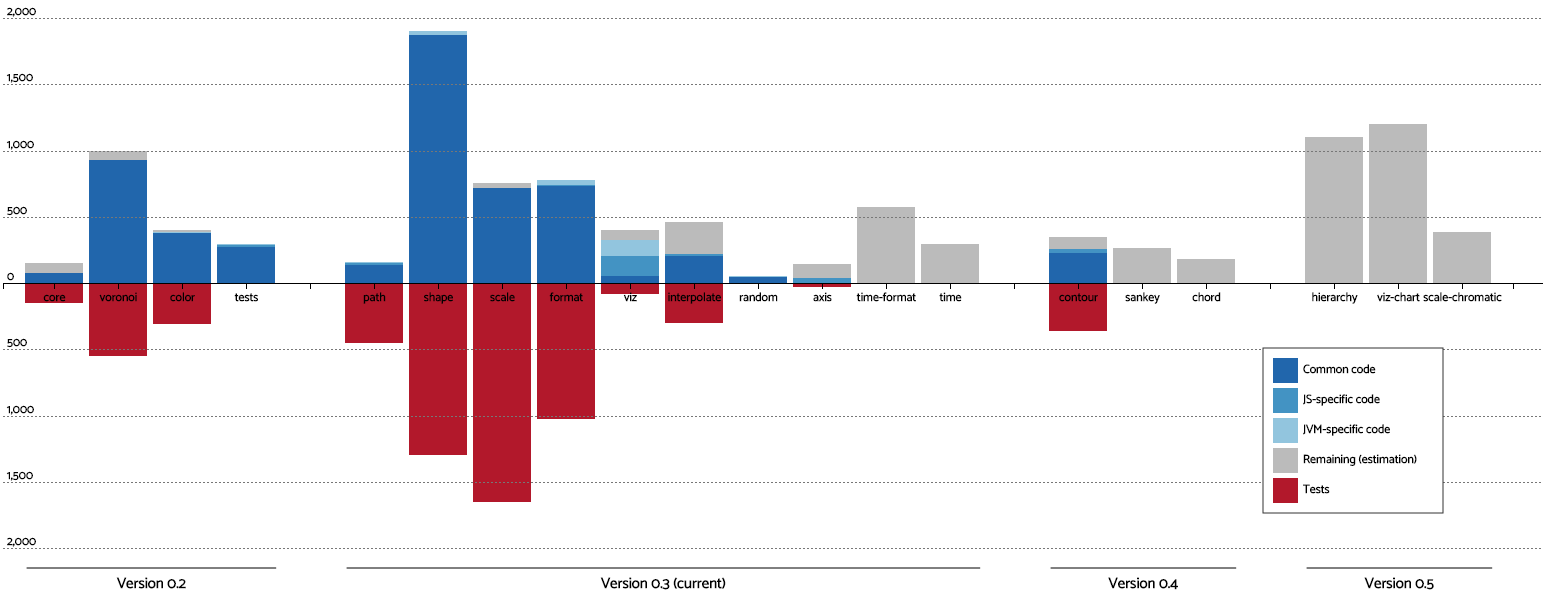
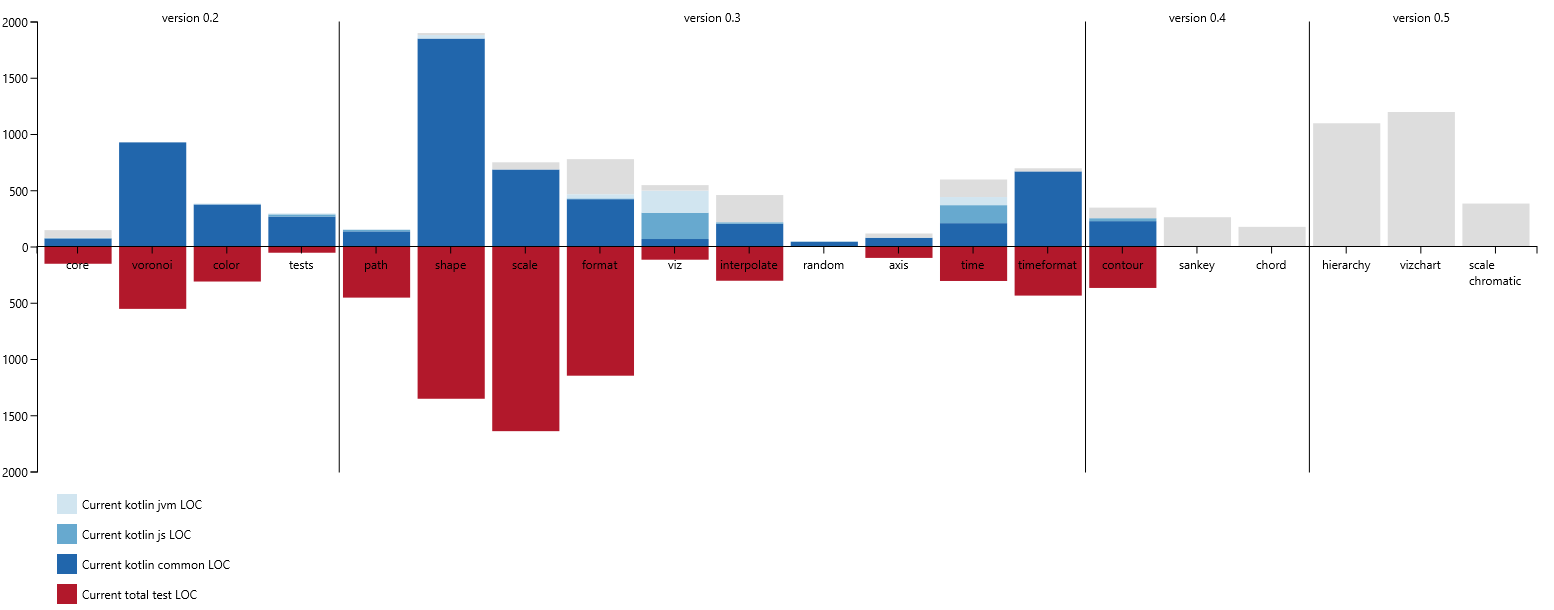
EXAMPLES : changed data of current progress + screenshot and update general readme file

diff --git a/examples/ex-progression-stack/ex-progression-stack-common/src/main/kotlin/io/data2viz/examples/progression/Data.kt b/examples/ex-progression-stack/ex-progression-stack-common/src/main/kotlin/io/data2viz/examples/progression/Data.kt
@@ -11,21 +11,22 @@ data class ModuleState(
         val testLOC: Int)
 
 
+// 18/12/2017
 val modules = listOf (
-        ModuleState("0.2",  "core", 150, 76, 3, 0, 150),
-        ModuleState("0.2",  "voronoi", 1000, 930, 0, 0, 550),
-        ModuleState("0.2",  "color", 400, 378, 2, 6, 307),
-        ModuleState("0.2",  "tests", 296, 269, 19, 8, 0),
+        ModuleState("0.2",  "core", 150, 76, 3, 2, 149),
+        ModuleState("0.2",  "voronoi", 930, 930, 0, 0, 550),
+        ModuleState("0.2",  "color", 386, 378, 2, 6, 307),
+        ModuleState("0.2",  "tests", 298, 271, 19, 8, 51),
         ModuleState("0.3",  "path", 156, 139, 14, 3, 450),
-        ModuleState("0.3",  "shape", 1902, 1871, 0, 31, 1300),
-        ModuleState("0.3",  "scale", 753, 715, 0, 0, 1653),
-        ModuleState("0.3",  "format", 781, 732, 7, 42, 1025),
-        ModuleState("0.3",  "viz", 400, 52, 149, 121, 85),
-        ModuleState("0.3",  "interpolate", 462, 206, 13, 0, 300),
+        ModuleState("0.3",  "shape", 1902, 1853, 0, 31, 1349),
+        ModuleState("0.3",  "scale", 753, 689, 0, 0, 1637),
+        ModuleState("0.3",  "format", 781, 425, 7, 37, 1144),
+        ModuleState("0.3",  "viz", 550, 71, 234, 196, 113),
+        ModuleState("0.3",  "interpolate", 462, 207, 13, 0, 300),
         ModuleState("0.3",  "random", 51, 46, 3, 2, 0),
-        ModuleState("0.3",  "axis", 142, 0, 39, 0, 31),
-        ModuleState("0.3",  "time", 298, 0, 0, 0, 0),
-        ModuleState("0.3",  "timeformat", 574, 0, 0, 0, 0),
+        ModuleState("0.3",  "axis", 120, 82, 1, 1, 97),
+        ModuleState("0.3",  "time", 600, 212, 160, 72, 302),
+        ModuleState("0.3",  "timeformat", 700, 672, 0, 0, 432),
         ModuleState("0.4",  "contour", 350, 230, 26, 0, 364),
         ModuleState("0.4",  "sankey", 265, 0, 0, 0, 0),
         ModuleState("0.4",  "chord", 179, 0, 0, 0, 0),

diff --git a/examples/ex-progression-stack/ex-progression-stack-common/src/main/kotlin/io/data2viz/examples/progression/D2vProgressionStackCommon.kt b/examples/ex-progression-stack/ex-progression-stack-common/src/main/kotlin/io/data2viz/examples/progression/D2vProgressionStackCommon.kt
@@ -154,7 +154,7 @@ private fun ParentItem.colorLegend(color: Color, legend: String, line: Int = 0) 
             }
             rect {
                 fill = color
-                stroke = colors.black
+                strokeWidth = .0
                 height = 20.0
                 width = 20.0
             }

diff --git a/README.md b/README.md
@@ -71,7 +71,7 @@ compilation phase.
 
 <img src="docs/img/current-progress.png" width="850">
 
-### V0.3 80%: 
+### V0.3 (working) : 
 The main purpose of this version is to propose the multiplatform bootstrap API allowing to build
 visualizations in a common module and deploy them indifferently in the browser or as a JavaFx 
 application.
@@ -82,10 +82,12 @@ The content of the available visual elements is:
 
 This version also contains some utility packages:
   - format: to simplify and provide an uniform way of formating numbers in Js and JVM,
-  - time and time-format: unified way of managing time for dataviz.
+  - time and time-format: unified way of managing time for dataviz. 
 
-### V0.4:
-Based on the visual elements, components for charting (chord, sankey, hierarchy, ...)
+### V0.4 (in dev) :
+This version proposes to add some layout elements and diagrams for charting  : [chord](https://en.wikipedia.org/wiki/Chord_diagram), 
+[sankey](https://en.wikipedia.org/wiki/Sankey_diagram), [cluster](https://en.wikipedia.org/wiki/Cluster_diagram), 
+[treemap](https://en.wikipedia.org/wiki/Treemapping)...
 
 ### V0.5:
 First version of a charting API (inspired by vega-lite)
